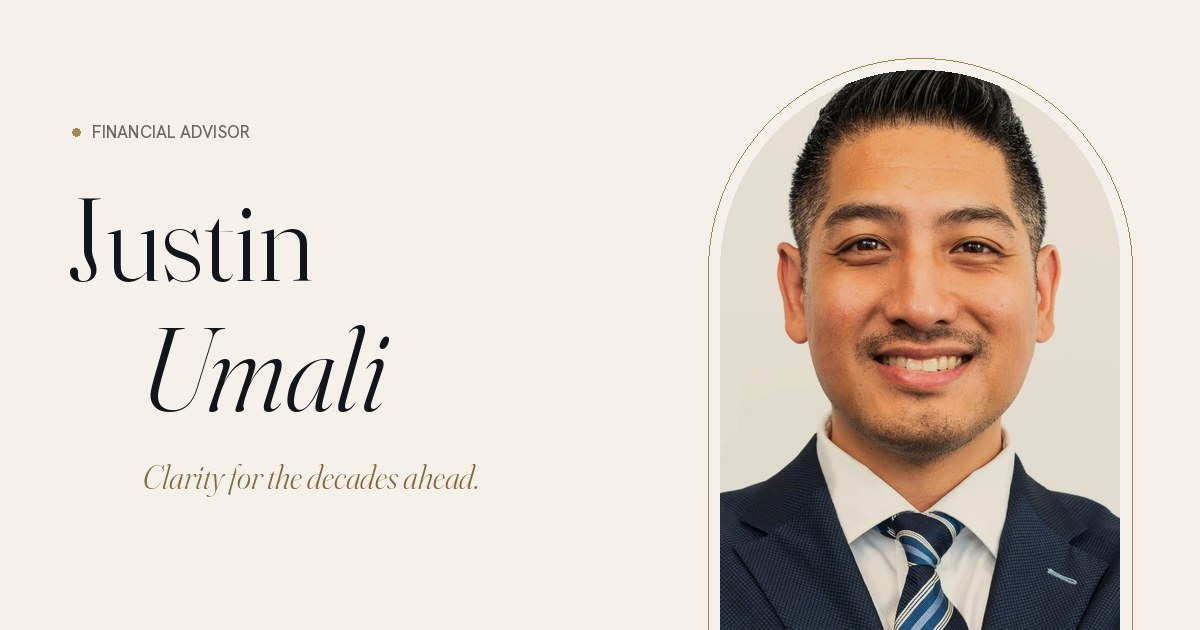
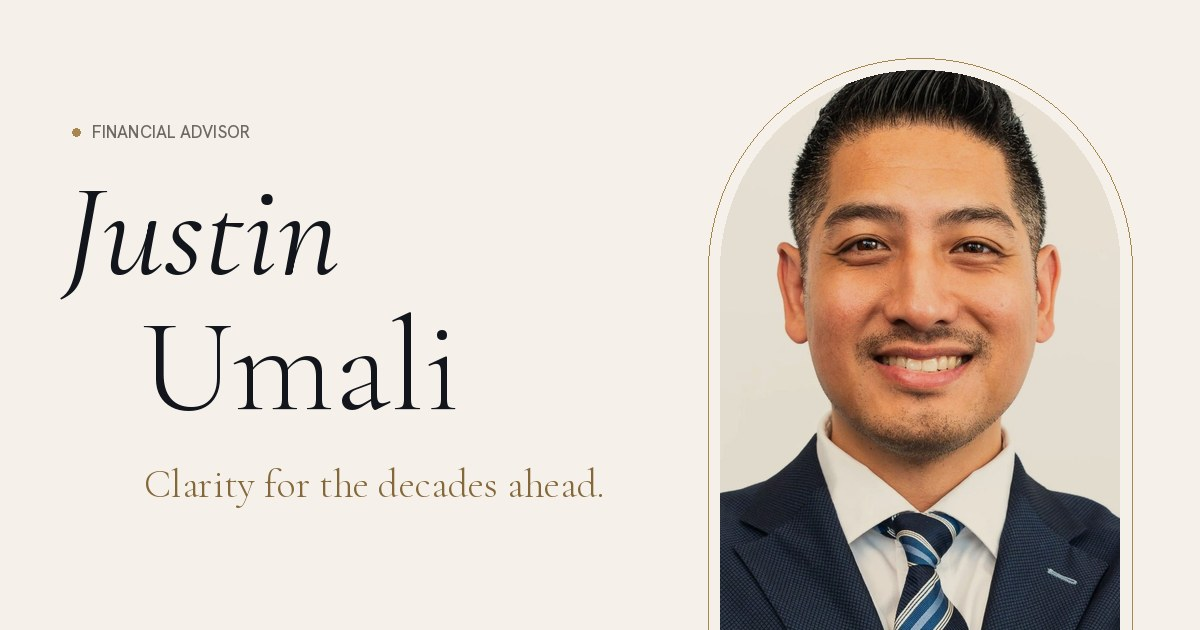
Switch display face from Fraunces to Cormorant Garamond
Fraunces' soft/wonk axes read as too quirky. Swap to Cormorant Garamond
for a classic private-bank feel: drop all variable-axis settings, retune
sizes, weights and tracking for its smaller x-height, use lining figures
in the planner and process steps, replace the hero's weight animation
with a blur-to-focus reveal, and give the hero lines room so the J's
descender isn't clipped. Regenerate the OG image and update the 404
page and docs to match.

Claude-Session: https://claude.ai/code/session_01H641Dcf4qk5NxjbdyGXZPm

diff --git a/styles.css b/styles.css
@@ -13,7 +13,7 @@
   --line: rgba(18, 22, 28, .14);
   --line-dark: rgba(245, 241, 234, .16);
 
-  --serif: "Fraunces", "Iowan Old Style", Georgia, serif;
+  --serif: "Cormorant Garamond", "Cormorant", Garamond, "Iowan Old Style", Georgia, serif;
   --sans: "Hanken Grotesk", ui-sans-serif, system-ui, sans-serif;
   --script: "Mrs Saint Delafield", cursive;
 
@@ -139,8 +139,7 @@ p { margin: 0; }
 .intro__inner { display: grid; justify-items: center; gap: 1.1rem; }
 .intro__mono {
   font-family: var(--serif);
-  font-size: clamp(3rem, 8vw, 5rem);
-  font-variation-settings: "opsz" 144, "SOFT" 100, "WONK" 1;
+  font-size: clamp(3.4rem, 9vw, 5.6rem);
   font-weight: 300; line-height: 1;
   opacity: 0;
 }
@@ -188,10 +187,9 @@ p { margin: 0; }
 .on-dark .nav.is-scrolled .nav__menu i { background: var(--ivory); }
 .on-dark .nav.is-scrolled .nav__mark em { color: var(--brass-light); }
 .nav__mark {
-  font-family: var(--serif); font-size: 1.6rem; line-height: 1;
-  font-variation-settings: "opsz" 144, "SOFT" 100, "WONK" 1; font-weight: 400;
+  font-family: var(--serif); font-size: 1.85rem; line-height: 1; font-weight: 500; font-weight: 400;
 }
-.nav__mark em, .footer__mark em { color: var(--brass); }
+.nav__mark em, .footer__mark em { color: var(--brass); font-weight: 400; }
 .nav__links { display: flex; gap: clamp(1.25rem, 2.6vw, 2.5rem); margin-left: auto; }
 .nav__links a {
   font-size: .85rem; color: var(--ink-2);
@@ -217,8 +215,7 @@ p { margin: 0; }
 .mobile-menu nav { display: grid; }
 .mobile-menu nav a {
   display: flex; align-items: baseline; gap: 1rem;
-  font-family: var(--serif); font-size: clamp(2.4rem, 11vw, 3.4rem); line-height: 1.2; font-weight: 300;
-  font-variation-settings: "opsz" 144, "SOFT" 50;
+  font-family: var(--serif); font-size: clamp(2.7rem, 12vw, 3.8rem); line-height: 1.15; font-weight: 400;
   border-bottom: 1px solid var(--line); padding: .5rem 0;
 }
 .mobile-menu small { font-family: var(--sans); font-size: .75rem; color: var(--brass-text); letter-spacing: .1em; }
@@ -234,14 +231,13 @@ section { position: relative; }
 .section-head { display: grid; gap: 1.5rem; max-width: 62rem; margin-bottom: clamp(3rem, 7vw, 6rem); }
 .section-title {
   font-family: var(--serif);
-  font-size: clamp(2.3rem, 1.4rem + 4vw, 5.25rem);
+  font-size: clamp(2.6rem, 1.6rem + 4.4vw, 5.75rem);
   line-height: 1.02;
-  letter-spacing: -.02em;
-  font-weight: 300;
-  font-variation-settings: "opsz" 144, "SOFT" 50, "WONK" 0;
+  letter-spacing: -.01em;
+  font-weight: 400;
   text-wrap: balance;
 }
-.section-title em { font-variation-settings: "opsz" 144, "SOFT" 100, "WONK" 1; color: var(--brass-text); }
+.section-title em { color: var(--brass-text); }
 .section-sub { max-width: 34rem; color: var(--ink-2); font-size: 1.05rem; }
 
 /* ---------- hero ---------- */
@@ -258,18 +254,17 @@ section { position: relative; }
 .hero__name {
   font-family: var(--serif);
   font-weight: 300;
-  font-size: clamp(4.2rem, 13.5vw, 12.5rem);
+  font-size: clamp(4.6rem, 15vw, 13.75rem);
   line-height: .86;
-  letter-spacing: -.045em;
-  font-variation-settings: "opsz" 144, "SOFT" 50, "WONK" 0;
+  letter-spacing: -.02em;
   margin-left: -.06em;
 }
-.hero__name .line { display: block; overflow: hidden; padding: 0 .08em .1em 0; margin-bottom: -.1em; }
-.hero__name .line--italic { font-style: italic; padding-left: clamp(2rem, 9vw, 9rem); font-variation-settings: "opsz" 144, "SOFT" 100, "WONK" 1; }
+.hero__name .line { display: block; overflow: hidden; padding: 0 .08em .24em .1em; margin: 0 0 -.24em -.1em; }
+.hero__name .line--italic { font-style: italic; padding-left: clamp(2rem, 9vw, 9rem); }
 .hero__name .char { display: inline-block; will-change: transform; }
 
 .hero__lede { display: grid; gap: 1.1rem; max-width: 30rem; margin-left: clamp(0rem, 9vw, 9rem); }
-.hero__statement { font-family: var(--serif); font-size: clamp(1.35rem, 1.1rem + .9vw, 1.85rem); line-height: 1.2; font-style: italic; font-weight: 350; font-variation-settings: "opsz" 48, "SOFT" 100, "WONK" 1; color: var(--brass-text); }
+.hero__statement { font-family: var(--serif); font-size: clamp(1.55rem, 1.25rem + 1vw, 2.15rem); line-height: 1.2; font-style: italic; font-weight: 400; color: var(--brass-text); }
 .hero__body { color: var(--ink-2); }
 .hero__ctas.reveal-line > span { display: flex; flex-wrap: wrap; align-items: center; gap: 1.5rem; padding-top: .5rem; }
 .reveal-line { overflow: hidden; }
@@ -325,7 +320,7 @@ section { position: relative; }
   .hero__portrait figcaption { display: none; }
   .hero__portrait { grid-column: 3 / span 8; order: 1; }
   .hero__foot { order: 3; }
-  .hero__name { font-size: clamp(4.4rem, 24vw, 9rem); }
+  .hero__name { font-size: clamp(4.8rem, 26vw, 10rem); }
   .hero__lede { margin-left: 0; }
   .hero__facts { display: none; }
 }
@@ -342,11 +337,10 @@ section { position: relative; }
 }
 .statement__text {
   font-family: var(--serif);
-  font-weight: 300;
-  font-size: clamp(1.9rem, 1rem + 3.6vw, 4.4rem);
-  line-height: 1.12;
-  letter-spacing: -.018em;
-  font-variation-settings: "opsz" 144, "SOFT" 50;
+  font-weight: 400;
+  font-size: clamp(2.1rem, 1.1rem + 3.9vw, 4.8rem);
+  line-height: 1.1;
+  letter-spacing: -.01em;
   max-width: 22ch;
   max-width: min(100%, 60rem);
   text-indent: clamp(3rem, 12vw, 12rem);
@@ -370,9 +364,8 @@ section { position: relative; }
 .philosophy__numerals { grid-column: 1 / span 6; position: relative; align-self: center; height: clamp(10rem, 30vw, 26rem); }
 .numeral {
   position: absolute; left: 0; bottom: 0;
-  font-family: var(--serif); font-weight: 200; font-style: italic;
+  font-family: var(--serif); font-weight: 300; font-style: italic;
   font-size: clamp(9rem, 28vw, 26rem); line-height: .8;
-  font-variation-settings: "opsz" 144, "SOFT" 100, "WONK" 1;
   color: transparent;
   -webkit-text-stroke: 1px var(--brass);
   opacity: 0;
@@ -382,9 +375,8 @@ section { position: relative; }
 .principle { position: absolute; inset: 0 0 auto 0; display: grid; gap: 1.5rem; opacity: 0; visibility: hidden; }
 .principle.is-active { opacity: 1; visibility: visible; }
 .principle h2 {
-  font-family: var(--serif); font-weight: 300;
-  font-size: clamp(3rem, 2rem + 4vw, 6rem); line-height: 1; letter-spacing: -.03em;
-  font-variation-settings: "opsz" 144, "SOFT" 50;
+  font-family: var(--serif); font-weight: 400;
+  font-size: clamp(3.3rem, 2.2rem + 4.4vw, 6.6rem); line-height: 1; letter-spacing: -.015em;
 }
 .principle p { font-size: clamp(1.05rem, 1rem + .3vw, 1.25rem); color: var(--ink-2); max-width: 30rem; line-height: 1.65; }
 
@@ -421,16 +413,15 @@ html:not(.js) .philosophy__panels, .reduced .philosophy__panels, .no-pin .philos
 }
 .index__no { font-size: .8rem; letter-spacing: .12em; color: var(--brass-text); font-variant-numeric: tabular-nums; }
 .index__title {
-  font-family: var(--serif); font-weight: 300;
-  font-size: clamp(1.6rem, 1rem + 2.2vw, 3.1rem); line-height: 1.05; letter-spacing: -.02em;
-  font-variation-settings: "opsz" 144, "SOFT" 50, "WONK" 0;
-  transition: transform .7s var(--ease), font-variation-settings .7s var(--ease);
+  font-family: var(--serif); font-weight: 400;
+  font-size: clamp(1.8rem, 1.1rem + 2.4vw, 3.4rem); line-height: 1.05; letter-spacing: -.01em;
+  transition: transform .7s var(--ease), color .5s;
 }
 .index__desc { color: var(--ink-2); max-width: 28rem; opacity: .8; transition: opacity .5s; }
 .index__arrow { justify-self: end; width: 2.6rem; height: 2.6rem; border-radius: 50%; border: 1px solid var(--line); display: grid; place-items: center; transition: background-color .5s var(--ease), border-color .5s, color .5s, transform .7s var(--ease); }
 @media (hover: hover) {
   .index__row:hover::before { transform: scaleY(1); }
-  .index__row:hover .index__title { transform: translateX(1rem); font-style: italic; font-variation-settings: "opsz" 144, "SOFT" 100, "WONK" 1; }
+  .index__row:hover .index__title { transform: translateX(1rem); font-style: italic; color: var(--brass-text); }
   .index__row:hover .index__desc { opacity: 1; }
   .index__row:hover .index__arrow { background: var(--ink); border-color: var(--ink); color: var(--ivory); transform: rotate(45deg); }
 }
@@ -454,7 +445,7 @@ html:not(.js) .philosophy__panels, .reduced .philosophy__panels, .no-pin .philos
 .planner__controls { display: grid; gap: 2.25rem; padding-top: .5rem; }
 .field { display: grid; gap: .9rem; }
 .field label { display: flex; justify-content: space-between; align-items: baseline; gap: 1rem; font-size: .85rem; color: rgba(245,241,234,.72); }
-.field output { font-family: var(--serif); font-size: 1.35rem; color: var(--ivory); font-variation-settings: "opsz" 48; font-variant-numeric: tabular-nums; }
+.field output { font-family: var(--serif); font-size: 1.6rem; font-weight: 500; color: var(--ivory); font-variant-numeric: lining-nums tabular-nums; }
 
 input[type="range"] {
   --p: 50%;
@@ -485,9 +476,8 @@ input[type="range"]:focus-visible::-webkit-slider-thumb { box-shadow: 0 0 0 4px 
 .planner__totals .label { display: block; font-size: .75rem; letter-spacing: .16em; text-transform: uppercase; color: rgba(245,241,234,.6); margin-bottom: .4rem; }
 .planner__big {
   display: block;
-  font-family: var(--serif); font-weight: 300;
-  font-size: clamp(2.8rem, 1.5rem + 5vw, 6rem); line-height: .95; letter-spacing: -.03em;
-  font-variation-settings: "opsz" 144, "SOFT" 50;
+  font-family: var(--serif); font-weight: 400;
+  font-size: clamp(3.1rem, 1.7rem + 5.5vw, 6.6rem); line-height: .95; letter-spacing: -.015em;
   font-variant-numeric: tabular-nums lining-nums;
 }
 .planner__split { display: grid; gap: .5rem; font-size: .85rem; color: rgba(245,241,234,.72); }
@@ -521,7 +511,7 @@ input[type="range"]:focus-visible::-webkit-slider-thumb { box-shadow: 0 0 0 4px 
   transition: opacity .3s;
   display: grid;
 }
-.chart__tip b { font-family: var(--serif); font-size: 1.1rem; font-weight: 400; }
+.chart__tip b { font-family: var(--serif); font-size: 1.3rem; font-weight: 600; font-variant-numeric: lining-nums; }
 .chart__tip span { color: var(--muted); font-size: .7rem; letter-spacing: .08em; text-transform: uppercase; }
 .chart.is-hover .chart__tip { opacity: 1; }
 .planner .fine { color: rgba(245,241,234,.5); max-width: 44rem; margin-top: 1.5rem; }
@@ -539,10 +529,10 @@ html:not(.js) .steps__line i, .reduced .steps__line i { transform: none; }
   width: 3.8rem; height: 3.8rem; border-radius: 50%;
   display: grid; place-items: center;
   background: var(--ivory); border: 1px solid var(--brass);
-  font-family: var(--serif); font-size: 1.05rem; font-style: italic; color: var(--brass-text);
+  font-family: var(--serif); font-size: 1.3rem; font-style: italic; font-weight: 500; color: var(--brass-text); font-variant-numeric: lining-nums;
   position: relative; z-index: 1;
 }
-.step h3 { font-family: var(--serif); font-weight: 300; font-size: clamp(2rem, 1.4rem + 2.2vw, 3.4rem); line-height: 1.05; letter-spacing: -.02em; font-variation-settings: "opsz" 144, "SOFT" 50; }
+.step h3 { font-family: var(--serif); font-weight: 400; font-size: clamp(2.25rem, 1.6rem + 2.4vw, 3.75rem); line-height: 1.05; letter-spacing: -.01em; }
 .step__meta { font-size: .75rem; letter-spacing: .16em; text-transform: uppercase; color: var(--brass-text); margin: .9rem 0 1rem; }
 .step p:last-child { color: var(--ink-2); max-width: 34rem; font-size: 1.05rem; }
 
@@ -558,12 +548,11 @@ html:not(.js) .steps__line i, .reduced .steps__line i { transform: none; }
 .letter__thumb img { width: 100%; height: 100%; object-fit: cover; object-position: 50% 25%; mix-blend-mode: multiply; transform: scale(1.5); transform-origin: 50% 30%; }
 .letter__body { grid-column: 5 / span 7; display: grid; gap: 1.5rem; }
 .letter__body p {
-  font-family: var(--serif); font-weight: 300;
-  font-size: clamp(1.25rem, 1rem + .9vw, 1.75rem); line-height: 1.45;
-  font-variation-settings: "opsz" 36, "SOFT" 50;
+  font-family: var(--serif); font-weight: 500;
+  font-size: clamp(1.4rem, 1.1rem + 1vw, 1.95rem); line-height: 1.42;
   color: var(--ink-2);
 }
-.letter__body .letter__open { font-size: clamp(1.8rem, 1.2rem + 2vw, 3rem); line-height: 1.1; color: var(--ink); font-style: italic; font-variation-settings: "opsz" 144, "SOFT" 100, "WONK" 1; letter-spacing: -.015em; }
+.letter__body .letter__open { font-size: clamp(2rem, 1.35rem + 2.2vw, 3.3rem); line-height: 1.1; color: var(--ink); font-style: italic; font-weight: 400; letter-spacing: -.01em; }
 .signature { margin-top: 1rem; }
 .signature__ink {
   display: inline-block;
@@ -583,11 +572,10 @@ html:not(.js) .steps__line i, .reduced .steps__line i { transform: none; }
 .cta .eyebrow::after { content: ""; width: 2rem; height: 1px; background: var(--brass); }
 .cta__title {
   font-family: var(--serif); font-weight: 300;
-  font-size: clamp(3rem, 1.5rem + 7vw, 9rem); line-height: .95; letter-spacing: -.04em;
-  font-variation-settings: "opsz" 144, "SOFT" 50;
+  font-size: clamp(3.3rem, 1.7rem + 7.6vw, 9.75rem); line-height: .95; letter-spacing: -.02em;
   text-wrap: balance;
 }
-.cta__title em { display: block; color: var(--brass-text); font-variation-settings: "opsz" 144, "SOFT" 100, "WONK" 1; }
+.cta__title em { display: block; color: var(--brass-text); }
 .cta__title .w { display: inline-block; }
 .cta__actions { display: grid; gap: 1.5rem; justify-items: center; }
 .cta__mail { font-size: .95rem; color: var(--ink-2); background: linear-gradient(var(--brass), var(--brass)) 0 100% / 100% 1px no-repeat; padding-bottom: .15rem; }
@@ -596,8 +584,8 @@ html:not(.js) .steps__line i, .reduced .steps__line i { transform: none; }
 .footer { background: var(--ink); color: rgba(245,241,234,.72); padding: clamp(4rem, 8vw, 6rem) var(--gutter) 2rem; }
 .footer > * { max-width: var(--max); margin-left: auto; margin-right: auto; }
 .footer__top { display: flex; flex-wrap: wrap; justify-content: space-between; align-items: flex-end; gap: 2rem; padding-bottom: 3rem; border-bottom: 1px solid var(--line-dark); }
-.footer__mark { font-family: var(--serif); font-weight: 300; font-size: clamp(2.5rem, 6vw, 5rem); line-height: 1; letter-spacing: -.03em; color: var(--ivory); font-variation-settings: "opsz" 144, "SOFT" 50; }
-.footer__mark em { font-variation-settings: "opsz" 144, "SOFT" 100, "WONK" 1; color: var(--brass-light); }
+.footer__mark { font-family: var(--serif); font-weight: 300; font-size: clamp(2.8rem, 6.6vw, 5.5rem); line-height: 1; letter-spacing: -.015em; color: var(--ivory); }
+.footer__mark em { color: var(--brass-light); }
 .footer nav { display: flex; flex-wrap: wrap; gap: 1rem 1.6rem; font-size: .88rem; }
 .footer nav a:hover { color: var(--ivory); }
 .footer__legal { display: grid; gap: 1rem; padding-top: 2rem; font-size: .74rem; line-height: 1.65; color: rgba(245,241,234,.5); }
@@ -639,9 +627,8 @@ html:not(.js) .steps__line i, .reduced .steps__line i { transform: none; }
 .book__step.is-active { display: block; }
 .book__step legend, .book__done h3 {
   padding: 0; margin-bottom: 1.75rem;
-  font-family: var(--serif); font-weight: 300;
-  font-size: clamp(1.9rem, 1.4rem + 1.6vw, 2.6rem); line-height: 1.05; letter-spacing: -.02em;
-  font-variation-settings: "opsz" 144, "SOFT" 50;
+  font-family: var(--serif); font-weight: 400;
+  font-size: clamp(2.1rem, 1.55rem + 1.8vw, 2.9rem); line-height: 1.05; letter-spacing: -.01em;
 }
 .book__sub { margin: 2rem 0 1rem; font-size: .85rem; color: var(--muted); }
 .chips { display: flex; flex-wrap: wrap; gap: .6rem; }

diff --git a/404.html b/404.html
@@ -5,11 +5,11 @@
   <meta name="viewport" content="width=device-width, initial-scale=1">
   <title>Page not found — Justin Umali</title>
   <link rel="icon" href="assets/favicon.svg" type="image/svg+xml">
-  <link rel="stylesheet" href="https://fonts.googleapis.com/css2?family=Fraunces:ital,opsz,wght,SOFT,WONK@0,9..144,100..900,0..100,0..1;1,9..144,100..900,0..100,0..1&family=Hanken+Grotesk:wght@300..700&display=swap">
+  <link rel="stylesheet" href="https://fonts.googleapis.com/css2?family=Cormorant+Garamond:ital,wght@0,300..700;1,300..700&family=Hanken+Grotesk:wght@300..700&display=swap">
   <style>
     body { margin: 0; min-height: 100svh; display: grid; place-items: center; background: #F5F1EA; color: #12161C; font-family: "Hanken Grotesk", system-ui, sans-serif; text-align: center; padding: 1.5rem; }
-    h1 { font-family: "Fraunces", Georgia, serif; font-weight: 300; font-style: italic; font-size: clamp(5rem, 20vw, 12rem); line-height: .9; margin: 0; color: transparent; -webkit-text-stroke: 1px #A8864F; font-variation-settings: "opsz" 144, "SOFT" 100, "WONK" 1; }
-    p { font-family: "Fraunces", Georgia, serif; font-weight: 300; font-size: clamp(1.4rem, 4vw, 2rem); margin: 1.5rem 0 2.5rem; }
+    h1 { font-family: "Cormorant Garamond", Georgia, serif; font-weight: 300; font-style: italic; font-size: clamp(5rem, 20vw, 12rem); line-height: .9; margin: 0; color: transparent; -webkit-text-stroke: 1px #A8864F; }
+    p { font-family: "Cormorant Garamond", Georgia, serif; font-weight: 400; font-size: clamp(1.6rem, 4.5vw, 2.3rem); margin: 1.5rem 0 2.5rem; }
     a { display: inline-flex; align-items: center; height: 3.25rem; padding: 0 1.75rem; border-radius: 999px; background: #12161C; color: #F5F1EA; text-decoration: none; font-size: .9rem; }
   </style>
 </head>

diff --git a/index.html b/index.html
@@ -14,7 +14,7 @@
   <link rel="icon" href="assets/favicon.svg" type="image/svg+xml">
   <link rel="preconnect" href="https://fonts.googleapis.com">
   <link rel="preconnect" href="https://fonts.gstatic.com" crossorigin>
-  <link rel="stylesheet" href="https://fonts.googleapis.com/css2?family=Fraunces:ital,opsz,wght,SOFT,WONK@0,9..144,100..900,0..100,0..1;1,9..144,100..900,0..100,0..1&family=Hanken+Grotesk:wght@300..700&family=Mrs+Saint+Delafield&display=swap">
+  <link rel="stylesheet" href="https://fonts.googleapis.com/css2?family=Cormorant+Garamond:ital,wght@0,300..700;1,300..700&family=Hanken+Grotesk:wght@300..700&family=Mrs+Saint+Delafield&display=swap">
   <link rel="preload" as="image" href="assets/justin-umali.webp" type="image/webp">
   <link rel="stylesheet" href="styles.css">
   <script>document.documentElement.classList.add('js');if(matchMedia('(prefers-reduced-motion: reduce)').matches)document.documentElement.classList.add('reduced');</script>

diff --git a/main.js b/main.js
@@ -109,14 +109,8 @@
 
       .to(chars, { y: 0, duration: 1.5, stagger: .045 }, 2.25);
 
-    // letters settle from hairline to their final weight, keeping each line's own axes
-    $$('.hero__name .line').forEach((line, i) => {
-      const base = getComputedStyle(line).fontVariationSettings;
-      tl.fromTo($$('.char', line),
-        { fontVariationSettings: `${base}, "wght" 100` },
-        { fontVariationSettings: `${base}, "wght" 300`, duration: 2.2, stagger: .045, ease: 'power3.out', clearProps: 'fontVariationSettings' },
-        2.25 + i * .27);
-    });
+    // letters come into focus as they rise
+    tl.fromTo(chars, { filter: 'blur(10px)', opacity: 0 }, { filter: 'blur(0px)', opacity: 1, duration: 1.6, stagger: .045, ease: 'power2.out', clearProps: 'filter' }, 2.25);
 
     tl
 

diff --git a/PLAN.md b/PLAN.md
@@ -4,14 +4,14 @@
 | Area | Choice |
 |---|---|
 | Direction | Quiet luxury: warm ivory `#F5F1EA`, ink `#12161C`, brushed brass accent `#A8864F` |
-| Type | **Fraunces** (variable: `opsz`, `SOFT`, `WONK`) for display · **Hanken Grotesk** for text |
+| Type | **Cormorant Garamond** (variable weight) for display · **Hanken Grotesk** for text. Fraunces was tried first and judged too quirky |
 | Practice | Comprehensive planning: retirement, investments, tax-aware planning, insurance, estate coordination |
 | Identity | "Justin Umali, Financial Advisor" with no city or firm. Placeholder email `hello@justinumali.example` |
-| Build | Hand-written static HTML/CSS/JS. GSAP + ScrollTrigger + Lenis from cdnjs/jsdelivr. GitHub Pages, no build step |
+| Build | Hand-written static HTML/CSS/JS. GSAP + ScrollTrigger + Lenis, vendored in `vendor/`. GitHub Pages, no build step |
 | Compliance | Refined placeholder disclosures plus a clear "demonstration site" note |
 
 ## Signature moments
-1. **Cinematic portrait intro.** A brass hairline draws across an ivory screen, the name sets letter by letter with the Fraunces `SOFT`/`WONK` axes easing, and the portrait opens through a rising arch-shaped clip-path. The photo's white backdrop is blended into the ivory with `mix-blend-mode: multiply`, so it looks shot for the page.
+1. **Cinematic portrait intro.** A brass hairline draws across an ivory screen, the name sets letter by letter, each glyph rising and coming into focus, and the portrait opens through a rising arch-shaped clip-path. The photo's white backdrop is blended into the ivory with `mix-blend-mode: multiply`, so it looks shot for the page.
 2. **Scroll-told philosophy.** A pinned chapter with three principles (Clarity, Discipline, Stewardship). Each one crossfades in turn, with a large roman numeral and a progress rail.
 3. **Live compounding chart.** Sliders for starting amount, monthly contribution, years and assumed return. An SVG path redraws itself with a gradient area underneath, the totals count up, and a "contributions vs growth" split shows. It's hand-built, with no chart library.
 4. **"Your first meeting" timeline.** Conversation, then Blueprint, then Stewardship, joined by a brass line that draws as you scroll.

diff --git a/README.md b/README.md
@@ -2,7 +2,7 @@
 
 A design preview of a personal site for Justin Umali. It's a hand-built static site: plain HTML, CSS and JS, with no build step.
 
-- **Look:** quiet luxury. Warm ivory, ink and brushed brass. Set in Fraunces (variable optical size, soft and "wonk" axes) with Hanken Grotesk.
+- **Look:** quiet luxury. Warm ivory, ink and brushed brass. Set in Cormorant Garamond with Hanken Grotesk.
 - **Motion:** GSAP + ScrollTrigger with Lenis smooth scrolling, all vendored in `vendor/` so nothing depends on a CDN.
 - **Signature moments:** a cinematic intro and arch-portrait reveal, words that ink in as you read, pinned three-principle chapters, a live compounding planner, a scroll-drawn process timeline, a signed letter, and a three-step booking flow.
 - **Respects** `prefers-reduced-motion` and works without JavaScript.
